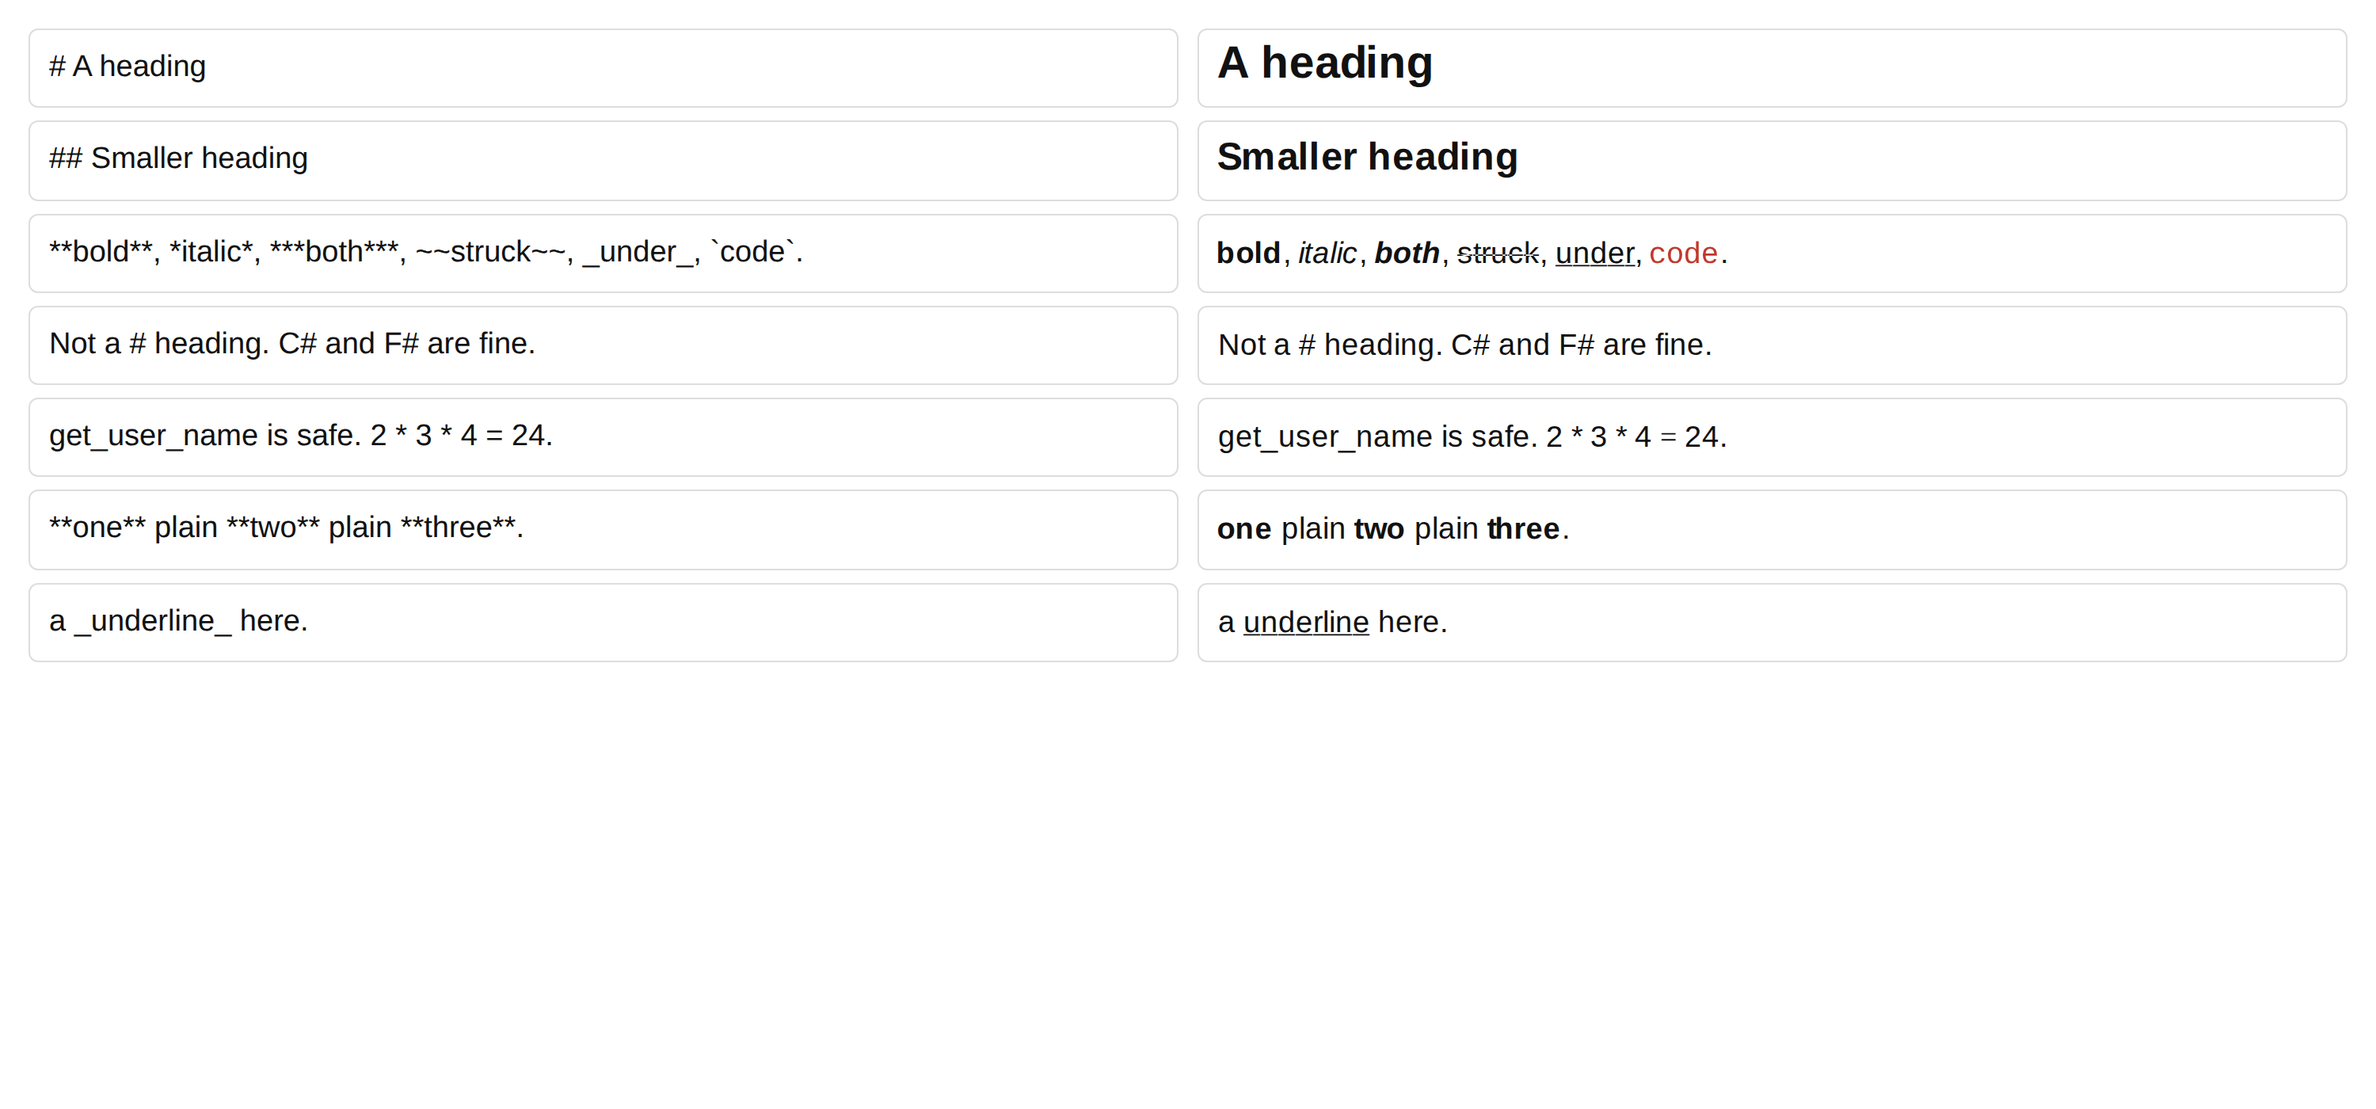
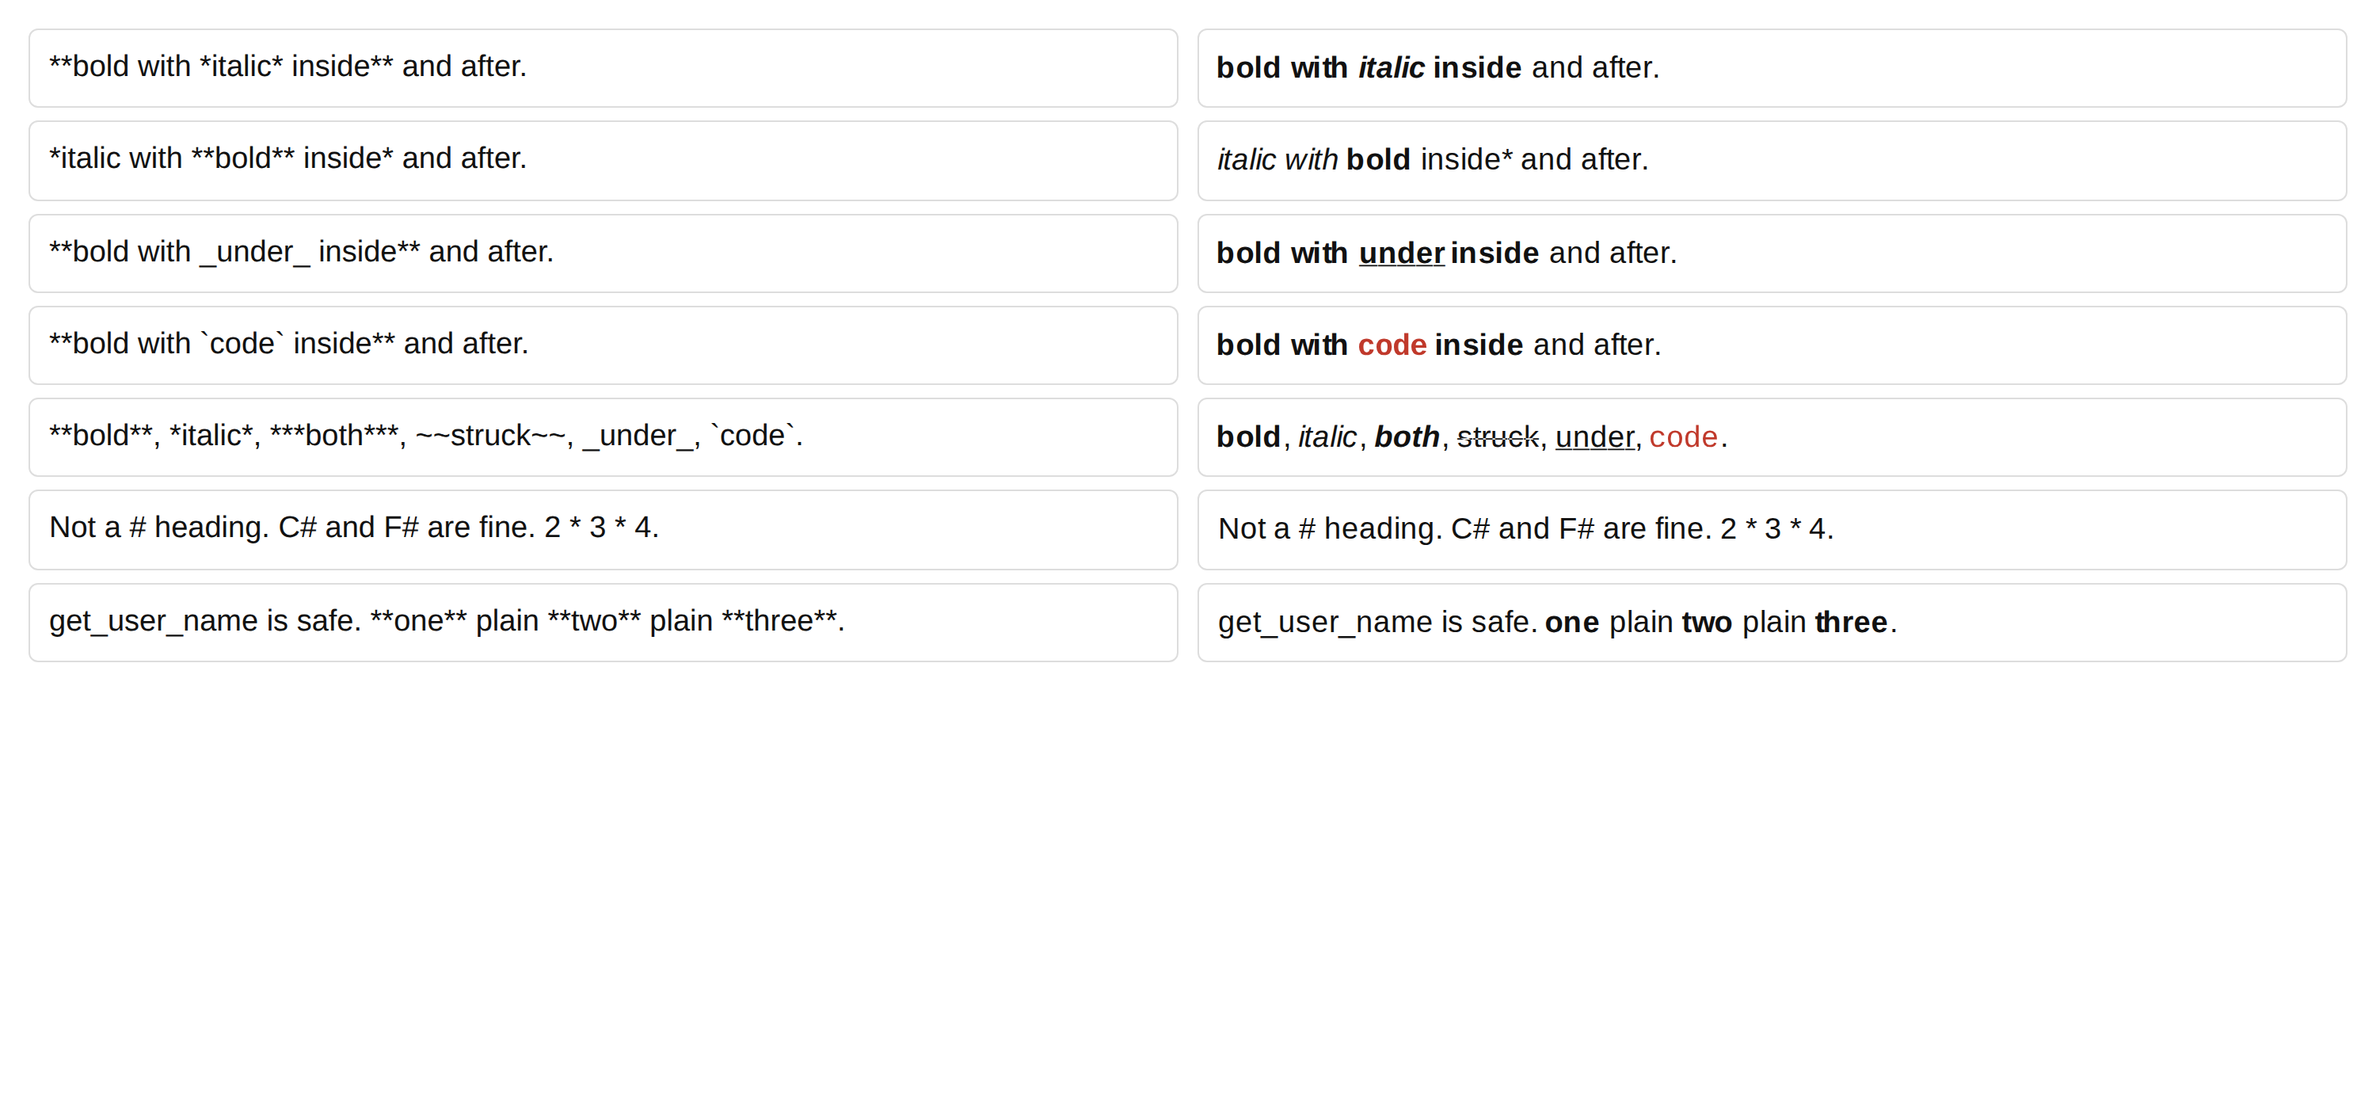
gramfont: one level of nesting, unrolled
A combine declaration emits a second copy of the inner rules that reads
the outer style's glyphs and writes the combined one, and the outer span
now carries across markers so it reaches the text after the nested run.
Nesting has to be acyclic, since the lookups run in one fixed order, and
a cycle is refused by name.

diff --git a/gramfont/font.py b/gramfont/font.py
@@ -179,10 +179,14 @@ class Builder:
             lines.append(f'@All_{style} = {self.styled(style, set(self.alphabet))};')
             lines.append(f'lookup TO_{style} {{ sub @All by @All_{style}; }} TO_{style};')
 
-        # A longer opener has to be tried before a shorter one that prefixes it,
-        # or `**` never fires because `*` already consumed the position.
+        # Two things fix the order. A style something nests inside has to run
+        # first, or the inner rule consumes the text before the outer one sees
+        # it. Otherwise a longer opener goes before a shorter one that prefixes
+        # it, or `**` never fires because `*` already took the position.
+        depth = self._nesting_depth()
         ordered = sorted(enumerate(self.shapes),
-                         key=lambda pair: (-len(pair[1].prefix), pair[0]))
+                         key=lambda pair: (depth.get(pair[1].rule.style, 0),
+                                           -len(pair[1].prefix), pair[0]))
         names = []
         for index, shape in ordered:
             name = f'R{index}'
@@ -190,45 +194,123 @@ class Builder:
             lines.append(f'lookup {name} {{')
             lines += ['  ' + rule for rule in self._rules(shape)]
             lines.append(f'}} {name};')
+        # Writing a combined style means reading a glyph that is already
+        # styled, so each combination needs its own substitution lookup.
+        for outer, _, result in self.grammar.combines:
+            lines.append(f'lookup TO_{result}_in_{outer} '
+                         f'{{ sub @All_{outer} by @All_{result}; }} TO_{result}_in_{outer};')
+        # One level of nesting, unrolled. The outer span has already styled
+        # everything between its markers, the inner marker included, so this
+        # pass only upgrades a sub-range of it to the combined style.
+        for outer, inner, result in self.grammar.combines:
+            for index, shape in ordered:
+                if shape.rule.style != inner or not shape.spans:
+                    continue
+                name = f'N{outer}_{index}_{result}'
+                names.append(name)
+                lines.append(f'lookup {name} {{')
+                lines += ['  ' + rule for rule
+                          in self._rules(shape, host=outer, style=result,
+                                         writer=f'TO_{result}_in_{outer}')]
+                lines.append(f'}} {name};')
         lines.append('feature calt {')
         lines += [f'  lookup {name};' for name in names]
         lines.append('} calt;')
         lines += self._hide(ordered)
         return '\n'.join(lines) + '\n'
 
-    def _rules(self, shape):
-        style = shape.rule.style
-        prefix = [self.name[next(iter(a.chars))] for a in shape.prefix]
+    def _rules(self, shape, host=None, style=None, writer=None):
+        """The substitutions for one alternative.
+
+        With `host` set, the same pattern is emitted again over glyphs the
+        outer span has already styled, writing the combined style instead.
+        """
+        style = style or shape.rule.style
+        writer = writer or f'TO_{style}'
+        suffix_of = (lambda g: f'{g}.{host}') if host else (lambda g: g)
+        chars_cls = ((lambda cs: self.styled(host, cs)) if host else self.cls)
+        prefix = [suffix_of(self.name[next(iter(a.chars))]) for a in shape.prefix]
         seed_chars = set(shape.body[0].chars)
         backtracks = []
         for kind, chars in shape.rule.guards:
             if kind == 'preceded_by':
-                backtracks.append(self.cls(chars))
+                backtracks.append(chars_cls(chars))
             else:
                 seed_chars -= chars
         if not seed_chars:
             raise GrammarError(
                 f'{shape.rule.name}: the guards rule out every character the '
                 f'pattern could start with', shape.rule.line)
-        if shape.line_start:
+        if shape.line_start and not host:
             # OpenType has no line anchor. A shaping run stops at a newline, so
             # "there is nothing to backtrack over" is the same test.
             backtracks.append('@All')
+        # A style that carries across markers has to recognise its own styled
+        # markers as backtrack too, or the run stops at the first one.
+        carries = bool(host) or self._hosts_a_nest(shape.rule.style)
+        behind = f'@All_{style}' if carries else f'@Any_{style}'
         # The closing marker looks exactly like the opening one. Without this
         # the rule re-seeds on it and the span never ends.
-        backtracks.append(f'@Any_{style}')
+        backtracks.append(behind)
 
-        seed = self.cls(seed_chars)
+        seed = chars_cls(seed_chars)
         rules = [join('ignore sub', back, *prefix, seed + Q) + ';'
                  for back in backtracks]
         if shape.spans:
-            rules.append(join('sub', *prefix, seed + Q, f'lookup TO_{style}') + ';')
-            rules.append(f'sub @Any_{style} @Any{Q} lookup TO_{style};')
+            if carries and shape.suffix:
+                # Carrying the style across a marker means the closing one has
+                # to be excluded by name, or the span runs to the end of the
+                # line instead of stopping there.
+                closer = [suffix_of(self.name[next(iter(a.chars))])
+                          for a in shape.suffix]
+                # A closing marker can also be the start of a longer opening
+                # one: `*` ends emphasis and begins `**`. Carry the style over
+                # the longer form first, so the nested rule still sees it.
+                for longer in self._longer_openers(shape):
+                    glyphs = [f'{suffix_of(self.name[c])}{Q} lookup {writer}'
+                              for c in longer]
+                    rules.append(join('sub', behind, *glyphs) + ';')
+                rules.append(join('ignore sub', behind,
+                                  closer[0] + Q, *closer[1:]) + ';')
+            rules.append(join('sub', *prefix, seed + Q, f'lookup {writer}') + ';')
+            over = f'@All_{host}' if host else ('@All' if carries else '@Any')
+            rules.append(f'sub {behind} {over}{Q} lookup {writer};')
         else:
-            marked = [f'{self.cls(a.chars)}{Q} lookup TO_{style}' for a in shape.body]
-            tail = [self.name[next(iter(a.chars))] for a in shape.suffix]
+            marked = [f'{chars_cls(a.chars)}{Q} lookup {writer}' for a in shape.body]
+            tail = [suffix_of(self.name[next(iter(a.chars))]) for a in shape.suffix]
             rules.append(join('sub', *prefix, *marked, *tail) + ';')
         return rules
+
+    def _nesting_depth(self):
+        """How deep a style sits: an outer style is 0, what nests in it is 1."""
+        inside = {}
+        for outer, inner, _ in self.grammar.combines:
+            inside.setdefault(inner, set()).add(outer)
+        depth = {}
+
+        def of(style):
+            if style not in depth:
+                depth[style] = 0    # guards against a cycle plan already refused
+                depth[style] = max((of(o) + 1 for o in inside.get(style, ())),
+                                   default=0)
+            return depth[style]
+
+        for style in self.grammar.styles:
+            of(style)
+        return depth
+
+    def _longer_openers(self, shape):
+        """Other rules' opening markers that begin with this one's closer."""
+        closer = tuple(next(iter(a.chars)) for a in shape.suffix)
+        found = []
+        for other in self.shapes:
+            opener = tuple(next(iter(a.chars)) for a in other.prefix)
+            if len(opener) > len(closer) and opener[:len(closer)] == closer:
+                found.append(opener)
+        return sorted(set(found), key=len, reverse=True)
+
+    def _hosts_a_nest(self, style):
+        return any(outer == style for outer, _, _ in self.grammar.combines)
 
     def _hide(self, ordered):
         """A marker is only a marker once it has actually styled something.
@@ -240,23 +322,38 @@ class Builder:
         markers = sorted({c for shape in self.shapes if not shape.rule.keep
                           for atom in shape.prefix + shape.suffix
                           for c in atom.chars})
-        hide = []
-        for _, shape in ordered:
-            if shape.rule.keep:
-                continue
-            style = shape.rule.style
+        hide, styled_markers = [], set()
+        combos = self.grammar.combines
+
+        def emit(shape, style, host):
+            dot = (lambda g: f'{g}.{host}') if host else (lambda g: g)
             for part, template in ((shape.prefix, '  sub {} @Any_{};'),
                                    (shape.suffix, '  sub @Any_{1} {0};')):
                 if not part:
                     continue
-                marked = ' '.join(
-                    f'{self.name[next(iter(a.chars))]}{Q} lookup TO_NULL'
-                    for a in part)
+                for atom in part:
+                    if host:
+                        styled_markers.add(dot(self.name[next(iter(atom.chars))]))
+                marked = ' '.join(f'{dot(self.name[next(iter(a.chars))])}{Q} lookup TO_NULL'
+                                  for a in part)
                 hide.append(template.format(marked, style))
+
+        for _, shape in ordered:
+            if shape.rule.keep:
+                continue
+            emit(shape, shape.rule.style, None)
+            # An outer span can end on a nested run, so its closing marker has
+            # to be hidden after the combined style too.
+            for outer, inner, result in combos:
+                if shape.rule.style == outer and shape.suffix:
+                    emit(shape, result, None)
+                if shape.rule.style == inner and shape.spans:
+                    emit(shape, result, outer)
         lines = []
         if hide:
             lines.append('lookup TO_NULL {')
             lines += [f'  sub {self.name[c]} by {NULL};' for c in markers]
+            lines += [f'  sub {g} by {NULL};' for g in sorted(styled_markers)]
             lines.append('} TO_NULL;')
             lines.append('lookup HIDE {')
             lines += hide

diff --git a/tests/test_gramfont.py b/tests/test_gramfont.py
@@ -70,6 +70,17 @@ class GrammarTest(unittest.TestCase):
         self.assertNotIn('*', classes['any'])
         self.assertIn('a', classes['any'])
 
+    def test_nesting_both_ways_is_refused(self):
+        """Whichever lookup runs first would win every time, which renders
+        wrong rather than rendering nothing."""
+        extra = 'style em = from "%s";\nstyle both = from "%s";\n' % (
+            LIBERATION / 'LiberationSans-Italic.ttf',
+            LIBERATION / 'LiberationSans-BoldItalic.ttf')
+        with self.assertRaises(GrammarError) as caught:
+            build(extra + 'combine bold , em = both;\ncombine em , bold = both;\n'
+                  'r = "*" , { any } , "*" -> bold;')
+        self.assertIn('nests inside itself', str(caught.exception))
+
     def test_guards_narrow_the_seed_rather_than_the_whole_class(self):
         shapes, _ = build('r = "*" , { any } , "*" -> bold unless starts_with space;')
         self.assertEqual(shapes[0].rule.guards, [('starts_with', {' '})])
@@ -92,6 +103,38 @@ class FontTest(unittest.TestCase):
         builder = Builder(grammar, shapes, str(BASE))
         builder.build_glyphs()
         self.assertIn('feature calt', builder.feature())
+
+    def test_an_outer_style_runs_before_the_one_it_holds(self):
+        source = (ROOT / 'examples' / 'markdown.gram').read_text(encoding='utf-8')
+        grammar = check_regular(parse(source))
+        shapes, _ = plan(grammar)
+        builder = Builder(grammar, shapes, str(BASE))
+        builder.build_glyphs()
+        fea = builder.feature()
+        order = [line for line in fea.splitlines() if line.startswith('lookup R')]
+        styles = [shapes[int(line[8:line.index(' ', 8)])].rule.style
+                  for line in order]
+        self.assertLess(styles.index('bold'), styles.index('italic'))
+        self.assertIn('lookup TO_bolditalic_in_bold', fea)
+        self.assertIn('lookup Nbold_', fea)
+
+    def test_a_nested_span_reads_the_outer_style_and_writes_the_combined_one(self):
+        extra = 'style em = from "%s";\nstyle both = from "%s";\n' % (
+            LIBERATION / 'LiberationSans-Italic.ttf',
+            LIBERATION / 'LiberationSans-BoldItalic.ttf')
+        grammar = check_regular(parse(
+            HEAD + extra + 'combine bold , em = both;\n'
+            'b = "**" , { any } , "**" -> bold;\n'
+            'e = "*" , { any } , "*" -> em;'))
+        shapes, _ = plan(grammar)
+        builder = Builder(grammar, shapes, str(BASE))
+        builder.build_glyphs()
+        fea = builder.feature()
+        self.assertIn('sub @All_bold by @All_both;', fea)
+        self.assertIn('asterisk.bold', fea)
+        # The outer span has to carry over the inner marker to reach the text
+        # after it, so it reads its own styled markers as backtrack.
+        self.assertIn("sub @All_bold @All' lookup TO_bold;", fea)
 
     def test_the_diff_example_compiles_and_keeps_its_markers(self):
         source = (ROOT / 'examples' / 'diff.gram').read_text(encoding='utf-8')

diff --git a/gramfont/plan.py b/gramfont/plan.py
@@ -136,6 +136,37 @@ def shape(rule, atoms):
     return Shape(rule, prefix, body, suffix, line_start)
 
 
+def check_nesting_is_one_way(grammar):
+    """Nesting has to run one way, because the lookups run in one order.
+
+    A rule's lookup either fires before the one it nests inside or after it,
+    and the font has no way to choose per occurrence. So `a` inside `b` and
+    `b` inside `a` cannot both hold: whichever lookup runs first wins every
+    time, which is a silently wrong render rather than a missing feature.
+    """
+    edges = {}
+    for outer, inner, _ in grammar.combines:
+        edges.setdefault(outer, set()).add(inner)
+    state = {}
+
+    def walk(style, path):
+        if state.get(style) == 'open':
+            cycle = ' inside '.join(reversed(path[path.index(style):] + [style]))
+            raise GrammarError(
+                f'{style} nests inside itself ({cycle}). Lookups run in one '
+                f'fixed order, so only one direction of a pair can work; drop '
+                f'the combine for the other one.')
+        if state.get(style) == 'done':
+            return
+        state[style] = 'open'
+        for nested in edges.get(style, ()):
+            walk(nested, path + [style])
+        state[style] = 'done'
+
+    for style in list(edges):
+        walk(style, [])
+
+
 def resolve_class(expr, grammar, cls, rule):
     """A guard has to name one character class, not a pattern."""
     alts = flatten(expr, grammar, cls)
@@ -156,6 +187,11 @@ def plan(grammar):
                                rule.line)
         rule.guards = [(kind, resolve_class(expr, grammar, cls, rule))
                        for kind, expr in rule.guards]
+    for outer, inner, result in grammar.combines:
+        for name in (outer, inner, result):
+            if name not in grammar.styles:
+                raise GrammarError(f'combine names {name!r}, which is not a style')
+    check_nesting_is_one_way(grammar)
     shapes = []
     for rule in grammar.rules:
         for alt in flatten(rule.expr, grammar, cls):

diff --git a/gramfont/grammar.py b/gramfont/grammar.py
@@ -128,6 +128,7 @@ class Grammar:
         self.alphabet = ''
         self.markers = None     # set by a `markers` declaration, else derived
         self.styles = {}        # name -> {prop: value}
+        self.combines = []      # (outer, inner, result) -- one level of nesting
         self.productions = {}   # name -> Expr   (no action)
         self.rules = []         # [Rule]         (has an action)
 
@@ -166,6 +167,14 @@ class Parser:
                 self.next()
                 self.expect('punct', '=')
                 g.markers = set(expand_ranges(self.expect('string')))
+                self.expect('punct', ';')
+            elif value == 'combine':
+                self.next()
+                outer = self.expect('name')
+                self.expect('punct', ',')
+                inner = self.expect('name')
+                self.expect('punct', '=')
+                g.combines.append((outer, inner, self.expect('name')))
                 self.expect('punct', ';')
             elif value == 'style':
                 self.next()

diff --git a/README.md b/README.md
@@ -48,8 +48,25 @@ nothing deeper; recursion needs a stack it does not have. Unroll it to a fixed
 depth, or drop the nesting.
 ```
 
-Bounded nesting is fine, because it unrolls. Write the two levels you want as
-two rules. Unbounded nesting is not a missing feature, it is the boundary.
+Bounded nesting is fine, because it unrolls, and `combine` is how you ask for
+a level of it:
+
+```
+combine bold , italic = bolditalic;
+```
+
+That says italic inside bold renders as `bolditalic`, and the compiler emits a
+second copy of the italic rules that reads bold-styled glyphs and writes
+bolditalic ones. `**bold with *italic* inside**` then comes out right, markers
+and all. Each `combine` is one more level, written out at compile time. What
+you cannot write is "to any depth", and that is the boundary rather than a
+missing feature.
+
+Nesting runs one way. A rule's lookup fires either before the rule it nests
+inside or after it, and a font cannot pick per occurrence, so `combine a , b`
+and `combine b , a` together are refused: one of the two orders would render
+wrong every time. In the Markdown example bold holds italic, and the reverse,
+`*italic with **bold** inside*`, is the case it does not handle.
 
 ## The language
 
@@ -60,6 +77,7 @@ two rules. Unbounded nesting is not a missing feature, it is the boundary.
 | `style NAME = ...;` | how a match is drawn |
 | `NAME = expr;` | a named production, for reuse |
 | `NAME = expr -> STYLE;` | a rule: match this, draw it that way |
+| `combine A , B = C;` | B nested inside A renders as C |
 
 Expressions are EBNF: `"literal"`, `name`, `a , b`, `a | b`, `[ optional ]`,
 `{ repeated }`, `( grouped )`. The builtin classes are `any`, `letter`,
